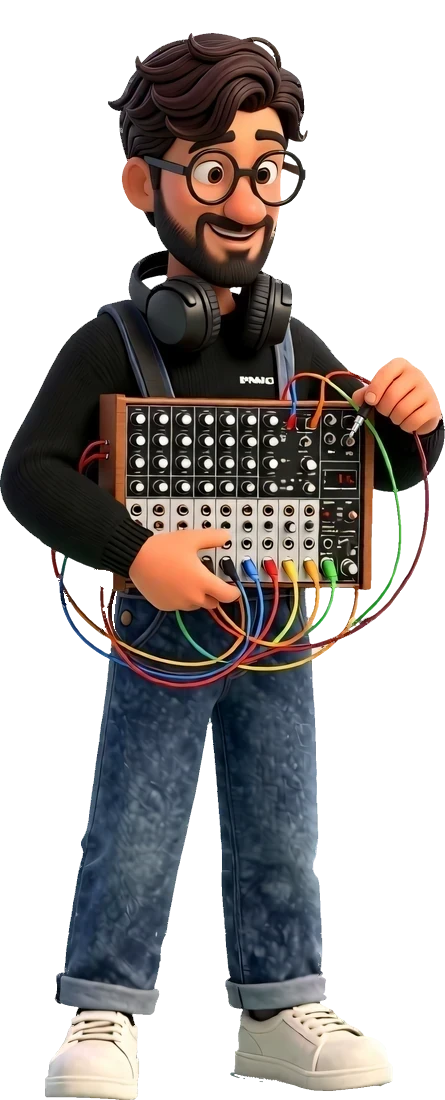
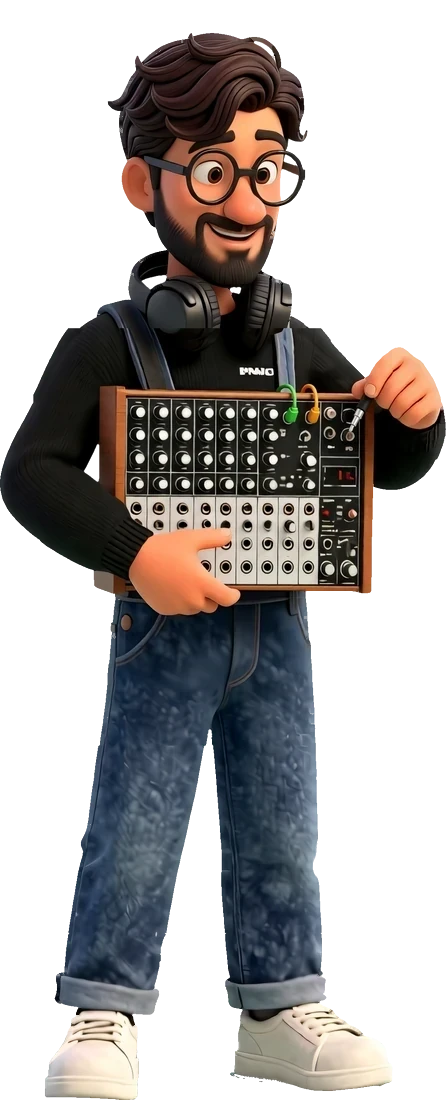
A print on every record; a red power switch and straight keys on the Moog, stylish crisp jeans; no hanging cables on the map musician; a rounded blue controller; REC further right; the tab says just SoundFX; a neater phone camera

diff --git a/js/disc-prints.js b/js/disc-prints.js
@@ -1,0 +1,96 @@
+// The record prints (owner, 25.10.2026: "give each work example a logical print on its record").
+// Every record carries its own simple flat motif, pressed under the grooves like a picture disc. Each motif comes
+// only from what js/content.js says about that card (the game, the genre, the company's line); no text (it would
+// need EN and UA), no client logos or cover art. PROJECTS[].print names the motif; a record without one, or with
+// a name not listed here, gets the neutral 'sound' print (an equaliser ring).
+// The drawing is in disc units: the centre at 0 0, the edge at 50. The label covers up to 19 and the rim starts
+// about 44, so every motif lives in the vinyl band between 20 and 43. Colours: the classes d (a dark shade of the
+// record's colour), l (a light tint of it) and c (cream, the label's paper) come from css/style.css ("record
+// prints"), so a print follows its record's colour; a few fixed colours are written in place.
+
+const f = (n) => +n.toFixed(2);
+// n copies of a part round the record: part(i) is drawn at the top (local "up" = outwards) and turned into place
+const ring = (n, r, part, start = 0) => Array.from({ length: n }, (_, i) =>
+  `<g transform="rotate(${f(start + (360 / n) * i)}) translate(0 ${-r})">${part(i)}</g>`).join('');
+// a point on the record: deg clockwise from the top, r from the centre
+const pt = (deg, r) => { const a = (deg * Math.PI) / 180; return `${f(Math.sin(a) * r)} ${f(-Math.cos(a) * r)}`; };
+// a four-point sparkle
+const spark = (s, cls) => `<path class="${cls}" d="M0 ${-s}Q${f(s * .18)} ${f(-s * .18)} ${s} 0Q${f(s * .18)} ${f(s * .18)} 0 ${s}Q${f(-s * .18)} ${f(s * .18)} ${-s} 0Q${f(-s * .18)} ${f(-s * .18)} 0 ${-s}Z"/>`;
+
+// RJ Games: "the mobile puzzle RPG Puzzle Breakers" -> jigsaw pieces scattered round the record
+const PIECE = 'M-6-6H-2.2A2.8 2.8 0 1 1 2.2-6H6V-2.2A2.8 2.8 0 1 1 6 2.2V6H2.2A2.8 2.8 0 1 0-2.2 6H-6V2.2A2.8 2.8 0 1 0-6-2.2Z';
+const puzzle = () => ring(6, 31.5, (i) =>
+  `<path class="${i % 2 ? 'd' : 'c'}" transform="rotate(${i % 2 ? 14 : -10}) translate(-2.2 -2.2) scale(.95)" d="${PIECE}"/>`);
+
+// Vogster: "Carnivores: Dinosaur Hunter HD" -> a trail of three-toed dinosaur tracks walking round the record
+const TRACK = '<path stroke-width="1" stroke-linejoin="round" d="M0 6C-3.2 6-4.4 3.6-4 1.4L-6.8-5.6C-7-6.4-6.2-6.8-5.6-6.2L-1.8-1.6L-1.6-8.6C-1.3-10 1.3-10 1.6-8.6L1.8-1.6L5.6-6.2C6.2-6.8 7-6.4 6.8-5.6L4 1.4C4.4 3.6 3.2 6 0 6Z"/>';
+const tracks = () => `<g class="d sd">${ring(6, 0, (i) =>
+  `<g transform="translate(0 ${i % 2 ? -27.8 : -36.4}) rotate(90) scale(${i % 2 ? .82 : .92})">${TRACK}</g>`, 15)}</g>`;
+
+// HEY CLAY: "air-dry modelling clay sets" for children -> rolled clay balls and little clay snakes in bright colours
+const CLAY = ['#ff6b5a', '#3f9dff', '#35c48d', '#ff7fc4', '#9a6bff'];
+const BLOB = 'M0-6C3.6-6.2 6.2-3.4 5.9.2C5.6 3.8 3 6.1-.4 5.9C-3.9 5.7-6.2 3.1-5.9-.4C-5.6-3.6-3.4-5.8 0-6Z';
+const clay = () => ring(10, 32, (i) => {
+  const k = Math.floor(i / 2);
+  return i % 2
+    ? `<path d="M-5.6 0C-4-2.8-1.9-2.8 0 0S4 2.8 5.6 0" fill="none" stroke="${CLAY[(k + 2) % CLAY.length]}" stroke-width="4.2" stroke-linecap="round" transform="rotate(90)"/>`
+    : `<path fill="${CLAY[k % CLAY.length]}" transform="rotate(${k * 47}) scale(${k % 2 ? .86 : .98})" d="${BLOB}"/><ellipse cx="-1.9" cy="-2" rx="1.7" ry="1.15" fill="#fff" opacity=".7"/>`;
+});
+
+// Ultimate Pirates: "pirate-themed city-building and strategy" game -> the record is a ship's wheel (the label its hub)
+const wheel = () => `<circle r="30.5" fill="none" class="sd" stroke-width="3.4"/><circle r="30.5" fill="none" class="sc" stroke-width=".9" opacity=".55"/>`
+  + ring(8, 0, () => `<path class="sd" d="M0-20.5V-37" stroke-width="2.8" stroke-linecap="round"/><rect class="d" x="-2.4" y="-43.4" width="4.8" height="8.6" rx="2.4"/>`, 22.5)
+  + ring(8, 30.5, () => '<circle class="c" r="1.05" opacity=".8"/>');
+
+// NAVI: an "esports club with teams in Counter-Strike 2, Dota 2, VALORANT..." -> a crosshair, ticks in the club card's yellow
+const crosshair = () => `<circle r="40.5" fill="none" class="sd" stroke-width="2.2"/><circle r="27" fill="none" class="sd" stroke-width="1.6"/>`
+  + ring(4, 0, () => '<path class="sd" d="M0-21.5V-43" stroke-width="3.4" stroke-linecap="round"/>')
+  + ring(4, 0, () => '<path d="M0-33.5L-3.4-39.5H3.4Z" fill="#ffee00" stroke="#ffee00" stroke-width="1.2" stroke-linejoin="round"/>', 45)
+  + ring(24, 40.5, (i) => (i % 6 ? '<path class="sd" d="M0 0V3.4" stroke-width="1.3" stroke-linecap="round"/>' : ''));
+
+// Valve: the name, and "maker of the Steam platform" -> puffs of steam curling round the record
+const PUFF = '<circle cx="-4.4" cy="1.4" r="3.5"/><circle cx="0" cy="-1" r="4.7"/><circle cx="4.5" cy="1.6" r="3.3"/><rect x="-7.9" y="1" width="15.6" height="4.4" rx="2.2"/>';
+const steam = () => ring(5, 32, (i) => {
+  const s = [1, .8, .95, .75, .88][i];
+  return `<g transform="scale(${s})"><g class="d" transform="translate(.9 1.4)" opacity=".55">${PUFF}</g><g class="c">${PUFF}</g></g>`;
+}) + ring(5, 32, () => {
+  const curl = (x, cls, dy = 0) => `<path class="${cls}" fill="none" stroke-width="1.8" stroke-linecap="round" d="M${x} ${f(5 + dy)}c2.4-2.2-2.4-4 0-6.2s-2.4-4 0-6.2"/>`;
+  return `<g opacity=".55">${curl(-1.6, 'sd', .9)}${curl(2.4, 'sd', .9)}</g>${curl(-2.4, 'sc')}${curl(1.6, 'sc')}`;
+}, 36);
+
+// Epic Games: "behind Fortnite and Unreal Engine" -> a low-poly mesh, the triangles a game engine draws
+const mesh = () => {
+  const n = 12, rin = 21, rout = 43, out = [];
+  const shade = ['l', 'c', 'd', '', 'l', 'd', 'c', '', 'd', 'l', '', 'c'];
+  for (let k = 0; k < n; k++) {
+    const a = (360 / n) * k, b = a + 360 / n, m = a + 180 / n, m2 = m + 360 / n;
+    const up = `M${pt(a, rin)}L${pt(b, rin)}L${pt(m, rout)}Z`, down = `M${pt(m, rout)}L${pt(m2, rout)}L${pt(b, rin)}Z`;
+    if (shade[k]) out.push(`<path class="${shade[k]}" opacity="${shade[k] === 'd' ? .36 : .52}" d="${up}"/>`);
+    if (shade[(k + 5) % n]) out.push(`<path class="${shade[(k + 5) % n]}" opacity=".26" d="${down}"/>`);
+    out.push(`<path class="sc" fill="none" stroke-width=".8" stroke-linejoin="round" opacity=".62" d="${up}${down}"/>`);
+  }
+  return out.join('') + ring(n, rout, () => '<circle class="c" r="1.3"/>', 15) + ring(n, rin + .6, () => '<circle class="c" r="1"/>');
+};
+
+// Riot Games: "League of Legends, VALORANT, Teamfight Tactics" -> crossed swords, guards in the card's red, sparks between
+const SWORD = '<path class="c sd" stroke-width=".7" stroke-linejoin="round" d="M0-12L1.8-8.8V3.6H-1.8V-8.8Z"/><rect fill="#d13639" x="-5" y="3.3" width="10" height="2.4" rx="1.2"/><rect class="d" x="-1" y="5.5" width="2" height="4.4" rx="1"/><circle fill="#d13639" cy="10.8" r="1.6"/>';
+const swords = () => ring(3, 32, () => `<g transform="rotate(-36) translate(0 1.4)">${SWORD}</g><g transform="rotate(36) translate(0 1.4)">${SWORD}</g>`)
+  + ring(3, 32.5, () => spark(4.4, 'd'), 60) + ring(6, 24.5, () => '<circle class="d" r="1.1" opacity=".7"/>', 30);
+
+// WePlay Studios: "produces esports tournaments, gaming shows and other events" -> stage spotlights and sparkles
+const spotlights = () => ring(6, 0, (i) => `<path class="${i % 2 ? 'c' : 'l'}" opacity="${i % 2 ? .5 : .62}" d="M-1.6-20.5H1.6L7.4-42.6Q0-44.6-7.4-42.6Z"/>`)
+  + ring(6, 35, (i) => spark(i % 2 ? 3.4 : 2.6, 'c'), 30) + ring(6, 25.5, () => '<circle class="c" r=".9" opacity=".8"/>', 30);
+
+// no clear theme in the card: a neutral sound print, an equaliser round the record
+const LEVELS = [7, 12, 9, 15, 11, 6, 13, 17, 10, 8, 14, 9];
+const sound = () => ring(36, 0, (i) => `<path class="sd" d="M0-22.5V${f(-22.5 - LEVELS[i % LEVELS.length])}" stroke-width="2.2" stroke-linecap="round" opacity=".8"/>`);
+
+export const PRINTS = { puzzle, tracks, clay, wheel, crosshair, steam, mesh, swords, spotlights, sound };
+
+// the print of one record, as markup for inside its .disc (under .disc__grooves); each motif is drawn once
+const made = new Map();
+export function discPrint(p) {
+  const name = p && Object.hasOwn(PRINTS, p.print) ? p.print : 'sound';
+  if (!made.has(name)) made.set(name, `<svg class="disc__print disc__print--${name}" viewBox="-50 -50 100 100" aria-hidden="true" focusable="false">${PRINTS[name]()}</svg>`);
+  return made.get(name);
+}

diff --git a/js/content.js b/js/content.js
@@ -28,29 +28,31 @@ export const SITE = {
 //            sources in _dev/docs/clients.md); for a game card, what the game is
 //   ours:    our team's part, apart from the description (only what the owner confirmed)
 //   link:    { href, label } the official page, shown under the caption (opens in a new tab)
+//   print:   the motif printed on the record, under its grooves (js/disc-prints.js): drawn only from what this card
+//            says (the game, the genre, the company's line), never a client logo or text; none -> the neutral 'sound' print
 //   work:    what our team did there, as the owner said (round S): 'events' or 'gameplay'; it is the small
 //            tag on the sleeve and in the track list (no tag when it isn't set)
 export const PROJECTS = [
-  { id: 'rj-games', kind: 'client', work: 'gameplay', title: 'RJ Games', project: 'Puzzle Breakers', vinyl: '#ff7a2f', cover: '#0f332f', art: 'assets/covers/rj-games.webp', logo: 'assets/clients/rj-games.svg',
+  { id: 'rj-games', kind: 'client', work: 'gameplay', title: 'RJ Games', project: 'Puzzle Breakers', vinyl: '#ff7a2f', cover: '#0f332f', print: 'puzzle', art: 'assets/covers/rj-games.webp', logo: 'assets/clients/rj-games.svg',
     company: 'Game developer that created the mobile puzzle RPG Puzzle Breakers: Champions War, as well as strategy and casual games.' },
   // Vogster's own site is offline; the official PlayStation Blog posts by its project lead confirm the game
-  { id: 'vogster', kind: 'client', work: 'gameplay', title: 'Vogster Entertainment', project: 'Carnivores: Dinosaur Hunter HD', vinyl: '#29b6f0', cover: '#0b0f1a', art: 'assets/covers/vogster.webp', logo: null,
+  { id: 'vogster', kind: 'client', work: 'gameplay', title: 'Vogster Entertainment', project: 'Carnivores: Dinosaur Hunter HD', vinyl: '#29b6f0', cover: '#0b0f1a', print: 'tracks', art: 'assets/covers/vogster.webp', logo: null,
     company: 'Game company behind Carnivores: Dinosaur Hunter HD for PlayStation 3.' },
-  { id: 'hey-clay', kind: 'client', work: 'gameplay', title: 'HEY CLAY', project: 'LIPAKA (ЛІПАКА)', vinyl: '#ffd02e', cover: '#eef5f9', art: 'assets/covers/hey-clay.webp', logo: 'assets/clients/hey-clay.webp',
+  { id: 'hey-clay', kind: 'client', work: 'gameplay', title: 'HEY CLAY', project: 'LIPAKA (ЛІПАКА)', vinyl: '#ffd02e', cover: '#eef5f9', print: 'clay', art: 'assets/covers/hey-clay.webp', logo: 'assets/clients/hey-clay.webp',
     company: 'Children’s brand combining air-dry modelling clay sets with an app of step-by-step animated sculpting guides.' },
   // a game rather than a company: what the game is, and a link to its official page (Steam, developer and publisher Moonmana)
-  { id: 'ultimate-pirates', kind: 'client', work: 'gameplay', title: 'Ultimate Pirates', vinyl: '#f2b33d', cover: '#101a24', art: 'assets/covers/ultimate-pirates.webp', logo: null,
+  { id: 'ultimate-pirates', kind: 'client', work: 'gameplay', title: 'Ultimate Pirates', vinyl: '#f2b33d', cover: '#101a24', print: 'wheel', art: 'assets/covers/ultimate-pirates.webp', logo: null,
     company: 'Free pirate-themed city-building and strategy MMO on Steam, developed and published by Moonmana.',
     ours: 'Our team has worked on Ultimate Pirates.',
     link: { href: 'https://store.steampowered.com/app/2628460/Ultimate_pirates/', label: 'Ultimate Pirates on Steam' } },
-  { id: 'navi', kind: 'client', work: 'gameplay', title: 'NAVI', vinyl: '#29b6f0', cover: '#ffee00', art: 'assets/covers/navi.webp', logo: 'assets/clients/navi.svg',
+  { id: 'navi', kind: 'client', work: 'gameplay', title: 'NAVI', vinyl: '#29b6f0', cover: '#ffee00', print: 'crosshair', art: 'assets/covers/navi.webp', logo: 'assets/clients/navi.svg',
     company: 'Esports club with teams in Counter-Strike 2, Dota 2, VALORANT, League of Legends and other games.' },
-  { id: 'valve', kind: 'client', work: 'events', title: 'Valve', vinyl: '#ffd02e', cover: '#1b1b1f', art: 'assets/covers/valve.webp', logo: 'assets/clients/valve.svg',
+  { id: 'valve', kind: 'client', work: 'events', title: 'Valve', vinyl: '#ffd02e', cover: '#1b1b1f', print: 'steam', art: 'assets/covers/valve.webp', logo: 'assets/clients/valve.svg',
     company: 'Game developer behind Half-Life, Counter-Strike 2 and Dota 2, and maker of the Steam platform and Steam Deck.' },
-  { id: 'epic-games', kind: 'client', work: 'events', title: 'Epic Games', vinyl: '#ff3d8b', cover: '#f0f0ec', art: 'assets/covers/epic-games.webp', logo: 'assets/clients/epic-games.svg',
+  { id: 'epic-games', kind: 'client', work: 'events', title: 'Epic Games', vinyl: '#ff3d8b', cover: '#f0f0ec', print: 'mesh', art: 'assets/covers/epic-games.webp', logo: 'assets/clients/epic-games.svg',
     company: 'Interactive entertainment company behind Fortnite and Unreal Engine, which also runs the Epic Games Store.' },
-  { id: 'riot-games', kind: 'client', work: 'events', title: 'Riot Games', vinyl: '#3ed6a3', cover: '#d13639', art: 'assets/covers/riot-games.webp', logo: 'assets/clients/riot-games.png',
+  { id: 'riot-games', kind: 'client', work: 'events', title: 'Riot Games', vinyl: '#3ed6a3', cover: '#d13639', print: 'swords', art: 'assets/covers/riot-games.webp', logo: 'assets/clients/riot-games.png',
     company: 'Game developer and publisher of League of Legends, VALORANT, Teamfight Tactics and other titles.' },
-  { id: 'weplay', kind: 'client', work: 'events', title: 'WePlay Studios', vinyl: '#8a6bff', cover: '#14082b', art: 'assets/covers/weplay.webp', logo: 'assets/clients/weplay.svg',
+  { id: 'weplay', kind: 'client', work: 'events', title: 'WePlay Studios', vinyl: '#8a6bff', cover: '#14082b', print: 'spotlights', art: 'assets/covers/weplay.webp', logo: 'assets/clients/weplay.svg',
     company: 'Content production company that produces esports tournaments, gaming shows and other events; part of WePlay Holding.' },
 ];

diff --git a/index.html b/index.html
@@ -3,7 +3,7 @@
 <head>
 <meta charset="utf-8">
 <meta name="viewport" content="width=device-width, initial-scale=1, viewport-fit=cover">
-<title>SoundFX: an audio system for your mobile game, Unity and Unreal</title>
+<title>SoundFX</title>
 <meta name="description" content="SoundFX tailors an audio system to your Unity or Unreal mobile game and integrates it in 24 hours: a unique sound and behavior, with AAA production quality as the benchmark.">
 <meta name="theme-color" content="#4fc6ef">
 <link rel="icon" href="assets/sfx-icon-32.png" sizes="32x32" type="image/png">
@@ -13,35 +13,36 @@
 <link rel="preconnect" href="https://fonts.gstatic.com" crossorigin>
 <link rel="stylesheet" href="https://fonts.googleapis.com/css2?family=Archivo:wdth,wght@62..125,100..900&family=Roboto+Flex:wdth,wght@25..151,100..1000&family=Montserrat:wght@600..900&display=swap">
 <script>try{if(localStorage.getItem("sfx-lang")==="uk"){document.documentElement.lang="uk";document.documentElement.classList.add("i18n-wait")}}catch(e){}</script>
-<link rel="stylesheet" href="css/style.css?v=202610250534">
+<link rel="stylesheet" href="css/style.css?v=202610250940">
 <link rel="preload" as="image" href="assets/system/scene-forest.webp" fetchpriority="high">
 <script type="importmap">
 {
   "imports": {
     "three": "https://cdn.jsdelivr.net/npm/three@0.170.0/build/three.module.min.js",
     "three/addons/": "https://cdn.jsdelivr.net/npm/three@0.170.0/examples/jsm/",
-    "./js/audio.js": "./js/audio.js?v=202610250534",
-    "./js/boom-frame.js": "./js/boom-frame.js?v=202610250534",
-    "./js/content.js": "./js/content.js?v=202610250534",
-    "./js/gift.js": "./js/gift.js?v=202610250534",
-    "./js/i18n-boot.js": "./js/i18n-boot.js?v=202610250534",
-    "./js/i18n-uk.js": "./js/i18n-uk.js?v=202610250534",
-    "./js/i18n.js": "./js/i18n.js?v=202610250534",
-    "./js/main.js": "./js/main.js?v=202610250534",
-    "./js/map.js": "./js/map.js?v=202610250534",
-    "./js/music/music.js": "./js/music/music.js?v=202610250534",
-    "./js/music/sound.js": "./js/music/sound.js?v=202610250534",
-    "./js/phone-speakers.js": "./js/phone-speakers.js?v=202610250534",
-    "./js/studio-anim.js": "./js/studio-anim.js?v=202610250534",
-    "./js/studio-console.js": "./js/studio-console.js?v=202610250534",
-    "./js/studio-foley.js": "./js/studio-foley.js?v=202610250534",
-    "./js/studio-piano.js": "./js/studio-piano.js?v=202610250534",
-    "./js/team-carousel.js": "./js/team-carousel.js?v=202610250534"
+    "./js/audio.js": "./js/audio.js?v=202610250940",
+    "./js/boom-frame.js": "./js/boom-frame.js?v=202610250940",
+    "./js/content.js": "./js/content.js?v=202610250940",
+    "./js/disc-prints.js": "./js/disc-prints.js?v=202610250940",
+    "./js/gift.js": "./js/gift.js?v=202610250940",
+    "./js/i18n-boot.js": "./js/i18n-boot.js?v=202610250940",
+    "./js/i18n-uk.js": "./js/i18n-uk.js?v=202610250940",
+    "./js/i18n.js": "./js/i18n.js?v=202610250940",
+    "./js/main.js": "./js/main.js?v=202610250940",
+    "./js/map.js": "./js/map.js?v=202610250940",
+    "./js/music/music.js": "./js/music/music.js?v=202610250940",
+    "./js/music/sound.js": "./js/music/sound.js?v=202610250940",
+    "./js/phone-speakers.js": "./js/phone-speakers.js?v=202610250940",
+    "./js/studio-anim.js": "./js/studio-anim.js?v=202610250940",
+    "./js/studio-console.js": "./js/studio-console.js?v=202610250940",
+    "./js/studio-foley.js": "./js/studio-foley.js?v=202610250940",
+    "./js/studio-piano.js": "./js/studio-piano.js?v=202610250940",
+    "./js/team-carousel.js": "./js/team-carousel.js?v=202610250940"
   }
 }
 </script>
-<script type="module" src="js/i18n-boot.js?v=202610250534"></script>
-<script type="module" src="js/main.js?v=202610250534"></script>
+<script type="module" src="js/i18n-boot.js?v=202610250940"></script>
+<script type="module" src="js/main.js?v=202610250940"></script>
 </head>
 <body>
 <a class="skip" href="#main">Skip to content</a>
@@ -169,7 +170,7 @@
             <section class="bay" data-bay="music" aria-labelledby="bay-music">
               <h3 class="bay__title" id="bay-music"><span class="bay__dot" data-bay-dot="music" aria-hidden="true"></span>Music</h3>
               <div class="bay__desk">
-                <img class="bay__person bay__person--mix" src="assets/team/mix-map-560.webp" srcset="assets/team/mix-map-560.webp 226w, assets/team/mix-map.webp 445w" sizes="150px" alt="Illustration: a musician with a small analog synthesizer and patch cables" width="445" height="1100" loading="lazy" decoding="async">
+                <img class="bay__person bay__person--mix" src="assets/team/mix-map-560.webp" srcset="assets/team/mix-map-560.webp 227w, assets/team/mix-map.webp 446w" sizes="150px" alt="Illustration: a musician with a small analog synthesizer and patch cables" width="446" height="1100" loading="lazy" decoding="async">
                 <div class="principle__art principle__art--play" id="card-music" data-scene="keys" tabindex="0" role="group" aria-label="A small keyboard you can play" aria-describedby="piano-help"><span class="principle__hint" aria-hidden="true">Play me</span><span class="visually-hidden" id="piano-help">Click or tap the keys. With the keyboard, use A to L for white keys and W, E, T, Y, U, O, P for black keys.</span><img class="principle__img" src="assets/studio/music-640.webp" srcset="assets/studio/music-640.webp 640w, assets/studio/music-1024.webp 1024w" sizes="(max-width: 760px) 92vw, 300px" width="1024" height="768" loading="lazy" decoding="async" alt=""></div>
                 <button class="zoom-btn" type="button" data-zoom-open="card-music" data-zoom-label="Music" aria-label="Open the keyboard larger"><svg viewBox="0 0 24 24" aria-hidden="true"><path d="M14 4h6v6M20 4l-7 7M10 20H4v-6M4 20l7-7"/></svg></button>
               </div>

diff --git a/css/style.css b/css/style.css
@@ -288,7 +288,8 @@ ul { padding: 0; list-style: none; }
   box-shadow: inset 0 0 0 1.5px rgba(255, 255, 255, .18), 0 44px 60px -28px rgba(6, 60, 48, .6), 0 0 0 10px rgba(255, 255, 255, .3);
   transform: rotate(-2.5deg);
 }
-.hero-phone::before { content: ""; position: absolute; z-index: 2; left: 14px; top: 50%; width: 9px; height: 30%; border-radius: 9px; transform: translateY(-50%); background: #0d1112; }
+/* round X (the owner: "тут криво"): the camera island as on a real phone held sideways: a short capsule close to the screen's left edge with a small lens, so it reads as part of the phone, not a bar stuck on the game */
+.hero-phone::before { content: ""; position: absolute; z-index: 2; left: calc(var(--pad, 9px) + 5px); top: 50%; width: 8px; height: 22%; border-radius: 8px; transform: translateY(-50%); background: radial-gradient(circle at 50% 22%, #2c3a44 0 1.6px, #0d1112 2.2px); }
 .hero-phone__screen { position: relative; height: 100%; overflow: hidden; border-radius: 26px; background: #cde6ee; }
 /* the game fills the screen like object-fit: cover (the screen is wider than the picture), so the
    speakers can be placed in the picture's own fractions */
@@ -629,6 +630,24 @@ ul { padding: 0; list-style: none; }
 .rec:hover .disc__label, .work.is-playing .rec.is-active .disc__label { animation: labelSpin 4.8s linear infinite; }
 @keyframes labelSpin { to { transform: rotate(1turn); } }
 @media (prefers-reduced-motion: reduce) { .rec .disc__label { animation: none !important; } .rec .disc { transition: none; } }
+/* ===== record prints (owner, 25.10.2026: a logical print on every record) =====
+   Each record wears its own flat motif (js/disc-prints.js, chosen by PROJECTS[].print), drawn first inside the
+   disc, so the grooves, their sheen and the label lie over it like a picture disc, and it turns with the record.
+   d / l / c are a dark shade of the record's colour, a light tint of it and the label's cream (fills; s* strokes).
+   On the circle the print turns with the label (hover, or the chosen record while it plays); reduced motion: still. */
+.disc__print {
+  --pr-dk: color-mix(in srgb, var(--vinyl) 50%, #12161a); --pr-lt: color-mix(in srgb, var(--vinyl) 42%, #fff);
+  position: absolute; inset: 0; width: 100%; height: 100%; border-radius: 50%; overflow: hidden; pointer-events: none;
+  transform-origin: 50% 50%;
+}
+.disc__print .d { fill: var(--pr-dk); }
+.disc__print .l { fill: var(--pr-lt); }
+.disc__print .c { fill: #fff8ec; }
+.disc__print .sd { stroke: var(--pr-dk); }
+.disc__print .sc { stroke: #fff8ec; }
+.rec:hover .disc__print, .work.is-playing .rec.is-active .disc__print { animation: labelSpin 4.8s linear infinite; }
+@media (prefers-reduced-motion: reduce) { .rec .disc__print { animation: none !important; } }
+/* ===== end of record prints ===== */
 .work__note { position: relative; z-index: 1; max-width: 62ch; margin: 0 auto; padding: 6px var(--gutter) 0; text-align: center; color: rgba(255, 255, 255, .84); font-size: .9375rem; line-height: 1.45; }
 
 /* round U2: on narrower desktops and tablets in landscape the ring takes the whole width (the player then fits between
@@ -1306,7 +1325,7 @@ ul { padding: 0; list-style: none; }
   height: calc(var(--fig) * var(--k)); width: auto; max-width: none; pointer-events: none; user-select: none;
 }
 [data-bay="sfx"] .bay__desk { --k: 1.12; --waist: .53; --person-x: 7%; }   /* round U2: her map pose with the handheld recorder (rec-map.webp) */
-[data-bay="music"] .bay__desk { --k: 1.08; --waist: .56; --person-x: calc(50% - var(--fig) * var(--k) * .2023); }   /* round X: his map pose with the compact modular synth and its cable loops (mix-map.webp, the case on his back removed), seated lower and centred over the card at every width (.2023: half his picture's width, 445/1100/2) */
+[data-bay="music"] .bay__desk { --k: 1.08; --waist: .56; --person-x: calc(50% - var(--fig) * var(--k) * .2027); }   /* round X: his map pose with the compact modular synth (no hanging cables) (mix-map.webp, the case on his back removed), seated lower and centred over the card at every width (.2027: half his picture's width, 446/1100/2) */
 /* stage 03: the tester stands beside the Game Boy */
 .bay__desk--side { display: grid; grid-template-columns: auto minmax(0, 1fr); align-items: end; gap: 6px; padding-top: 0; }
 .bay__desk--side .bay__person { position: relative; left: auto; top: auto; margin-bottom: -2px; height: calc(var(--fig) * .98); }
@@ -1629,7 +1648,7 @@ ul { padding: 0; list-style: none; }
   .hero { min-height: 0; display: flex; flex-direction: column; }
   .hero__stage { position: relative; inset: auto; height: clamp(470px, 66svh, 640px); overflow: hidden; }
   .team { left: 50%; right: auto; bottom: auto; top: 46%; transform: translateX(-50%); width: min(calc(100% - 2 * var(--gutter)), 560px); height: 54%; }
-  .hero-phone { right: auto; border-radius: 26px; padding: 7px; }
+  .hero-phone { right: auto; border-radius: 26px; padding: 7px; --pad: 7px; }
   .hero-phone__screen { border-radius: 20px; }
   .team__ring { inset: 0 0 52px; }
   .team__p { height: calc(var(--h) * 100%); }

diff --git a/js/main.js b/js/main.js
@@ -6,6 +6,7 @@ import { initMap, CATS } from './map.js';
 import { initPhoneSpeakers } from './phone-speakers.js';
 import { initTeamCarousel } from './team-carousel.js';
 import { BOOM_FRAME } from './boom-frame.js';
+import { discPrint } from './disc-prints.js';   // each record's own print, under its grooves (PROJECTS[].print)
 
 const $ = (s, r = document) => r.querySelector(s);
 const $$ = (s, r = document) => [...r.querySelectorAll(s)];
@@ -256,7 +257,7 @@ function recordMarkup(p, i) {
   <li class="rec rec--${p.kind}" data-i="${i}" style="--vinyl:${esc(p.vinyl)}; --edge:${esc(p.cover || '#fff')}; --tilt:${TILT[i % TILT.length]}deg">
     <div class="rec__visual">
       <button class="rec__hit" type="button" tabindex="-1" aria-label="${esc(p.title)}">
-        <span class="disc" aria-hidden="true"><span class="disc__grooves"></span><span class="disc__label"></span></span>
+        <span class="disc" aria-hidden="true">${discPrint(p)}<span class="disc__grooves"></span><span class="disc__label"></span></span>
         <span class="sleeve">${sleeve(p)}<span class="sleeve__glint" aria-hidden="true"></span></span>
         ${workTag(p) ? `<span class="rec__cat" aria-hidden="true">${workTag(p)}</span>` : ''}
       </button>
@@ -289,7 +290,7 @@ function initWork(openProject) {
     box: $('.hub__project'), index: $('[data-hub-index]'), ours: $('[data-hub-ours]'), oursBox: $('[data-hub-ours-box]'),
     name: $('[data-hub-name]'), summary: $('[data-hub-summary]'), open: $('[data-open]'), link: $('[data-hub-link]'),
   };
-  const deck = $('[data-deck]'), playBtn = $('[data-play]'), bar = $('[data-seek]');
+  const deck = $('[data-deck]'), playBtn = $('[data-play]'), bar = $('[data-seek]'), playerDisc = $('.player__disc', deck);
   // the track list: the clients numbered like the tracks of an album (no years or genres: those aren't in
   // the data; under the name, the project our team worked on, where the owner confirmed one)
   const tracks = $('[data-tracks]');
@@ -385,6 +386,9 @@ function initWork(openProject) {
     hub.index.textContent = i + 1;
     section.style.setProperty('--accent', p.vinyl);   // the chosen record lends its colour to the scene
     deck.style.setProperty('--vinyl', p.vinyl);
+    // the record on the turntable wears the chosen project's print (inside the disc, so it turns with it)
+    playerDisc.querySelector('.disc__print')?.remove();
+    playerDisc.insertAdjacentHTML('afterbegin', discPrint(p));
     hub.name.textContent = p.title;
     hub.summary.textContent = recordSummary(p);
     hub.summary.hidden = !recordSummary(p);
@@ -694,7 +698,7 @@ function initCase() {
       : `<img src="${esc(m.src)}" alt="${esc(m.alt || '')}" loading="lazy">`).join('');
     f.media.innerHTML = `
       <div class="case__record disc-card__art" style="--vinyl:${esc(p.vinyl)}; --edge:${esc(p.cover || '#fff')}">
-        <span class="disc"><span class="disc__grooves"></span><span class="disc__label"></span></span>
+        <span class="disc">${discPrint(p)}<span class="disc__grooves"></span><span class="disc__label"></span></span>
         <span class="sleeve">${sleeve(p)}</span>
       </div>
       ${media}`;

diff --git a/js/i18n-uk.js b/js/i18n-uk.js
@@ -97,7 +97,6 @@ export const UK = {
   'For example, Unity 6 or Unreal Engine 5': 'Наприклад, Unity 6 або Unreal Engine 5',
 
   /* round M: mobile games, the team, one map */
-  'SoundFX: an audio system for your mobile game, Unity and Unreal': 'SoundFX: аудіосистема для вашої мобільної гри, Unity та Unreal',
   'SoundFX tailors an audio system to your Unity or Unreal mobile game and integrates it in 24 hours: a unique sound and behavior, with AAA production quality as the benchmark.':
     'SoundFX адаптує аудіосистему під вашу мобільну гру на Unity чи Unreal та інтегрує її за 24 години: унікальне звучання й поведінка з орієнтиром на якість AAA-проєктів.',
   'Steps · grass': 'Кроки · трава',
